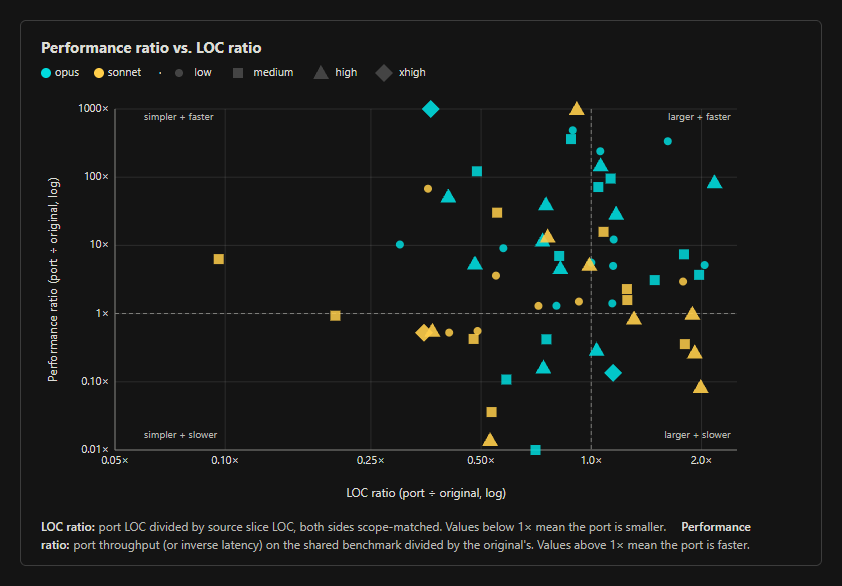
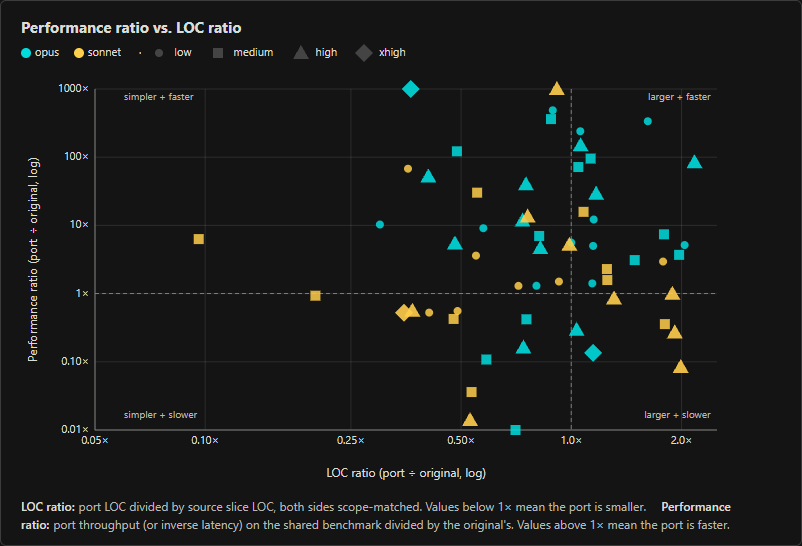
Balance the post's tables, and clip the charts to the card
The summary table carried hand-written centring CSS, which left both columns
against the left of a box the browser had already centred. It now takes the
shape table_balance.py reads, and the tool sizes the columns and indents them
so the pair reads centred while staying left-justified. The auditor table is
sized by the same run.

Charts were clipped with a 20px bleed around the card. The card has its own
border and padding, so the bleed rendered as dead space between the figure
label and the chart title. Clipping to the card drops every render to 802px.

diff --git a/blog-technical/posts/we-ported-65-oss-projects.html b/blog-technical/posts/we-ported-65-oss-projects.html
@@ -13,9 +13,6 @@
 <script src="https://cdnjs.cloudflare.com/ajax/libs/prism/1.29.0/plugins/autoloader/prism-autoloader.min.js" defer></script>
 <link rel="stylesheet" href="../theme/base.css">
 <style>
-/* Two-column key/value table: the rows want far less than the wide measure. */
-.metrics-table{max-width:640px;margin:36px auto}
-.metrics-table table{margin:0 auto}
 /* Mirrors .rtbl td.win for the losing side of a gains/losses pair. */
 .rtbl tbody td.lose{color:var(--bad);font-weight:600}
 </style>
@@ -97,28 +94,28 @@
 
 <h2>Summary Metrics</h2>
 
-<div class="table-scroll metrics-table">
-<table>
+<div class="table-scroll tight">
+<table style="table-layout:fixed;--ind:3px"><colgroup><col style="width:42.7%"><col style="width:57.3%"></colgroup>
 <thead>
 <tr>
-<th>Metric</th>
-<th>Value</th>
+<th class="ind">Metric</th>
+<th class="ind">Value</th>
 </tr>
 </thead>
 <tbody>
-<tr><td><strong>Total time</strong></td><td><strong>99.3 hours</strong></td></tr>
-<tr><td>Mean time per port</td><td>92 min (median 76)</td></tr>
-<tr><td>Fastest port</td><td>umputun/remark42 — 24 min (sonnet/low)</td></tr>
-<tr><td>Longest port</td><td>activepieces/activepieces — 292 min (opus/high)</td></tr>
-<tr><td>Total tokens</td><td>9.41B (25.5M output; the rest cache read/write)</td></tr>
-<tr><td>Sonnet mean time per port</td><td>61 min (n=31, median 60)</td></tr>
-<tr><td>Opus mean time per port</td><td>120 min (n=34, median 96)</td></tr>
-<tr><td>Total starting LOC (scope-matched)</td><td>61,835 (64/65 projects)</td></tr>
-<tr><td>Total finished LOC (port scope)</td><td>43,737 (64/65 projects)</td></tr>
-<tr><td>Largest LOC reduction</td><td>agno-agi/agno — 0.08:1 (1,524 → 127)</td></tr>
-<tr><td>Largest LOC increase</td><td>getredash/redash — 2.17:1 (542 → 1,176)</td></tr>
-<tr><td>Largest performance increase</td><td>langgenius/dify — 143,333× faster ⚠</td></tr>
-<tr><td>Largest performance degradation</td><td>Netflix/metaflow — 0.01× (100× slower)</td></tr>
+<tr><td class="ind"><strong>Total time</strong></td><td class="ind"><strong>99.3 hours</strong></td></tr>
+<tr><td class="ind">Mean time per port</td><td class="ind">92 min (median 76)</td></tr>
+<tr><td class="ind">Fastest port</td><td class="ind">umputun/remark42 — 24 min (sonnet/low)</td></tr>
+<tr><td class="ind">Longest port</td><td class="ind">activepieces/activepieces — 292 min (opus/high)</td></tr>
+<tr><td class="ind">Total tokens</td><td class="ind">9.41B (25.5M output; the rest cache read/write)</td></tr>
+<tr><td class="ind">Sonnet mean time per port</td><td class="ind">61 min (n=31, median 60)</td></tr>
+<tr><td class="ind">Opus mean time per port</td><td class="ind">120 min (n=34, median 96)</td></tr>
+<tr><td class="ind">Total starting LOC (scope-matched)</td><td class="ind">61,835 (64/65 projects)</td></tr>
+<tr><td class="ind">Total finished LOC (port scope)</td><td class="ind">43,737 (64/65 projects)</td></tr>
+<tr><td class="ind">Largest LOC reduction</td><td class="ind">agno-agi/agno — 0.08:1 (1,524 → 127)</td></tr>
+<tr><td class="ind">Largest LOC increase</td><td class="ind">getredash/redash — 2.17:1 (542 → 1,176)</td></tr>
+<tr><td class="ind">Largest performance increase</td><td class="ind">langgenius/dify — 143,333× faster ⚠</td></tr>
+<tr><td class="ind">Largest performance degradation</td><td class="ind">Netflix/metaflow — 0.01× (100× slower)</td></tr>
 </tbody>
 </table>
 </div>
@@ -168,7 +165,7 @@
 <p>The port was only considered complete and successful if the source system's unit and integration tests would pass when run against the new Akka system. Additionally, Claude was required to run <code>/akka:review</code> after every port which executes a variety of design, performance, and code structure auditors. Claude was required to resolve every identified issue:</p>
 
 <div class="table-scroll">
-<table>
+<table style="table-layout:fixed"><colgroup><col style="width:12.1%"><col style="width:87.9%"></colgroup>
 <thead>
 <tr><th>Auditor</th><th>What it checks</th></tr>
 </thead>
@@ -205,7 +202,7 @@
 </div>
 
 <div class="wide">
-<figure class="viz" style="--fig-w:842px">
+<figure class="viz" style="--fig-w:802px">
   <p class="viz-title">Figure 1</p>
   <div class="plot-wrap"><div class="plate plate--flush">
     <img src="charts/02-parity-vs-loc-ratio.png" alt="Benchmark answer parity vs. LOC ratio">
@@ -226,7 +223,7 @@
 </div>
 
 <div class="wide">
-<figure class="viz" style="--fig-w:842px">
+<figure class="viz" style="--fig-w:802px">
   <p class="viz-title">Figure 2</p>
   <div class="plot-wrap"><div class="plate plate--flush">
     <img src="charts/06-efficiency-model-effort.png" alt="Efficiency by model and effort">
@@ -241,7 +238,7 @@
 </div>
 
 <div class="wide">
-<figure class="viz" style="--fig-w:842px">
+<figure class="viz" style="--fig-w:802px">
   <p class="viz-title">Figure 3</p>
   <div class="plot-wrap"><div class="plate plate--flush">
     <img src="charts/07-tokens-model-effort.png" alt="Tokens per port by model and effort">
@@ -258,7 +255,7 @@
 </div>
 
 <div class="wide">
-<figure class="viz" style="--fig-w:842px">
+<figure class="viz" style="--fig-w:802px">
   <p class="viz-title">Figure 4</p>
   <div class="plot-wrap"><div class="plate plate--flush">
     <img src="charts/08-complexity-adjusted.png" alt="Complexity-adjusted efficiency vs. size of the ported slice">
@@ -304,7 +301,7 @@
 </div>
 
 <div class="wide">
-<figure class="viz" style="--fig-w:842px">
+<figure class="viz" style="--fig-w:802px">
   <p class="viz-title">Figure 5</p>
   <div class="plot-wrap"><div class="plate plate--flush">
     <img src="charts/09-guardrail-cost.png" alt="The aggregate cost of adding guardrails">
@@ -321,7 +318,7 @@
 </div>
 
 <div class="wide">
-<figure class="viz" style="--fig-w:842px">
+<figure class="viz" style="--fig-w:802px">
   <p class="viz-title">Figure 6</p>
   <div class="plot-wrap"><div class="plate plate--flush">
     <img src="charts/05-tokens-vs-steps.png" alt="Tokens used vs. steps taken">
@@ -340,7 +337,7 @@
 </div>
 
 <div class="wide">
-<figure class="viz" style="--fig-w:842px">
+<figure class="viz" style="--fig-w:802px">
   <p class="viz-title">Figure 7</p>
   <div class="plot-wrap"><div class="plate plate--flush">
     <img src="charts/01-loc-ratio-vs-size.png" alt="LOC ratio vs. size of the ported slice">
@@ -480,7 +477,7 @@
 </div>
 
 <div class="wide">
-<figure class="viz" style="--fig-w:842px">
+<figure class="viz" style="--fig-w:802px">
   <p class="viz-title">Figure 8</p>
   <div class="plot-wrap"><div class="plate plate--flush">
     <img src="charts/04-tokens-vs-loc-saved.png" alt="Tokens used vs. lines of code saved">
@@ -562,7 +559,7 @@
 </div>
 
 <div class="wide">
-<figure class="viz" style="--fig-w:842px">
+<figure class="viz" style="--fig-w:802px">
   <p class="viz-title">Figure 9</p>
   <div class="plot-wrap"><div class="plate plate--flush">
     <img src="charts/03-performance-vs-loc-ratio.png" alt="Performance ratio vs. LOC ratio">
